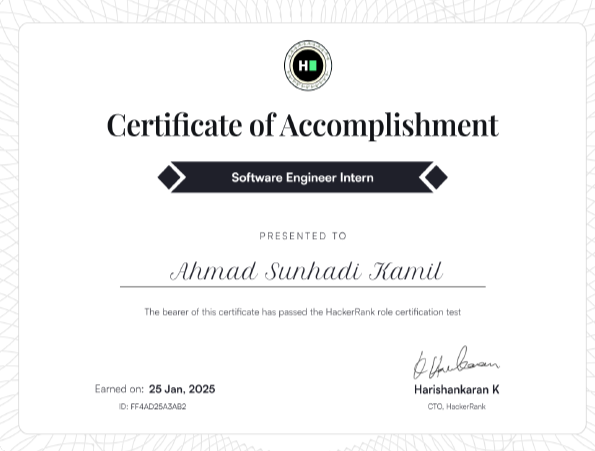
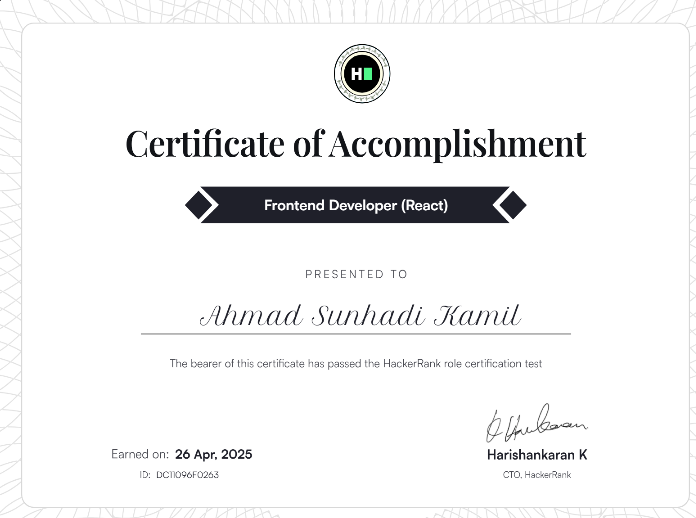
feat: update komponen About dengan gaya Neo-brutalism baru

diff --git a/src/app/about/page.tsx b/src/app/about/page.tsx
@@ -26,9 +26,13 @@ export default function About() {
   return (
     <section className="text-black-primary">
       <TextSection icon="😎" text="Tentang Saya" />
-      <div className="mx-auto mb-12 mt-8 flex flex-col items-center justify-center md:gap-10 lg:flex-row">
-        <div className="relative aspect-auto h-60 w-60 items-baseline justify-center rounded-3xl border-4 border-black-primary bg-yellow-primary object-cover shadow-image-card shadow-black-primary md:h-96 md:w-1/2 xl:w-96">
-          <div className="absolute right-0 flex h-12 w-16 translate-x-8 translate-y-6 items-center justify-center rounded-t-xl rounded-br-xl border-4 border-black-primary bg-orange-primary shadow-image-card shadow-black-primary md:h-16 md:w-20">
+      
+      <div className="mx-auto mb-12 mt-8 flex flex-col items-center justify-center gap-8 md:gap-10 lg:flex-row">
+        {/* CONTAINER FOTO PROFIL NEO-BRUTALISM IMPROVED */}
+        <div className="relative group h-72 w-72 shrink-0 rounded-3xl border-4 border-black-primary bg-yellow-primary shadow-[8px_8px_0px_0px_rgba(0,0,0,1)] transition-all duration-300 hover:translate-x-1 hover:translate-y-1 hover:shadow-[4px_4px_0px_0px_rgba(0,0,0,1)] md:h-[400px] md:w-[350px]">
+          
+          {/* Badge Ikon Kopi Animasi */}
+          <div className="absolute -right-4 -top-4 z-10 flex h-14 w-18 items-center justify-center rounded-xl border-4 border-black-primary bg-orange-primary shadow-[4px_4px_0px_0px_rgba(0,0,0,1)] md:h-16 md:w-20">
             <svg
               xmlns="http://www.w3.org/2000/svg"
               className="h-8 w-8 md:h-12 md:w-12"
@@ -106,15 +110,22 @@ export default function About() {
               </rect>
             </svg>
           </div>
-          <Image
-            src={'/me.png'}
-            alt="Picture of the author"
-            width={1000}
-            height={1000}
-            className="aspect-auto h-full w-full rounded-lg object-cover px-8"
-          />
+
+          {/* Wrapper Image agar pas dengan border radius bingkai */}
+          <div className="w-full h-full overflow-hidden rounded-[20px]">
+            <Image
+              src={'/me.png'}
+              alt="Picture of the author"
+              width={500}
+              height={500}
+              priority
+              className="h-full w-full object-cover object-center transition-transform duration-500 group-hover:scale-105"
+            />
+          </div>
         </div>
-        <p className="mt-5 text-justify text-base text-secondary-text md:mt-0 lg:w-1/2 xl:text-lg">
+
+        {/* DESKRIPSI TEKS */}
+        <p className="mt-5 text-justify text-base text-secondary-text md:mt-0 lg:w-1/2 xl:text-lg leading-relaxed">
           Saya adalah lulusan dari Jurusan <b>Teknologi Informasi</b> di Universitas Muhammadiyah Purworejo. 
           memiliki pemahaman yang kuat tentang bahasa pemrograman dan pengembangan web, serta pengalaman langsung dalam proyek <b>pengembangan perangkat lunak</b>.
           <br />
@@ -126,6 +137,7 @@ export default function About() {
           Selain itu, saya juga sedang memperdalam <b>Kotlin</b> untuk pengembangan aplikasi Android.
         </p>
       </div>
+
       <TextSection
         icon="💼"
         text="Ringkasan Profesional"
@@ -136,13 +148,13 @@ export default function About() {
           <ExperienceTimeline position={index % 2 == 1} key={index} {...data} />
         ))}
       </div>
+
       <TextSection
         icon="🎯"
         classNames="mt-10 xl:mt-28"
         text="Teknologi yang saya gunakan"
       />
       <div className="mt-5 flex flex-wrap justify-center justify-items-center gap-5 xl:gap-10 xl:px-40">
-        {/* <TechTabs /> */}
         {techIcons.map((data, index) => {
           const Icons = data.icons
           return (

diff --git a/src/app/sertifikat/page.tsx b/src/app/sertifikat/page.tsx
@@ -10,29 +10,22 @@ const CERTIFICATE_DATA: ICertificate[] = [
     title: "Fullstack Web Developer",
     company: "Digital Talent Scholarship - Kominfo",
     image: "/sertifikat/komdigi.png",
-    href: "https://dicoding.com/certificates/...",
+    href: "#",
     type: "course"
   },
   {
     title: "Software Engineering intern",
     company: "HackerRank",
     image: "/sertifikat/software.png",
-    href: "https://www.hackerrank.com/certificates/ff4ad25a3ab2",
+    href: "https://www.hackerrank.com/certificates/iframe/ff4ad25a3ab2",
     type: "competence"
   },
   {
     title: "Frontend Developer (React)",
     company: "HackerRank",
     image: "/sertifikat/react.png",
-    href: "https://www.hackerrank.com/certificates/dc11096f0263",
+    href: "https://www.hackerrank.com/certificates/iframe/dc11096f0263",
     type: "competence"
-  },
-  {
-    title: "Belajar Dasar AI",
-    company: "Dicoding",
-    image: "/sertifikat/aidasar.png",
-    href: "#",
-    type: "course"
   },
   {
     title: "Google Analytics Individual Qualification",
@@ -42,24 +35,31 @@ const CERTIFICATE_DATA: ICertificate[] = [
     type: "competence"
   },
   {
-    title: "Pentingnya Menjaga Keamanan Digital",
-    company: "Digital Talent Scholarship - Kominfo",
-    image: "/sertifikat/duniamaya.png",
-    href: "#",
-    type: "course"
-  },
-  {
-    title: "Dasar-Dasar Implementasi Kecerdasan Artifisial",
-    company: "Digital Talent Scholarship - Kominfo",
-    image: "/sertifikat/implementasiai.png",
-    href: "#",
-    type: "course"
-  },
-  {
     title: "Rest API (intermediate)",
     company: "HackerRank",
     image: "/sertifikat/restapi.png",
-    href: "#",
+    href: "https://www.hackerrank.com/certificates/iframe/1a8b894f670a",
+    type: "competence"
+  },
+  {
+    title: "Spec-Driven Development dengan Kiro",
+    company: "Dicoding",
+    image: "/sertifikat/kiro.png",
+    href: "https://www.dicoding.com/certificates/L4PQ9W4QQPO1",
+    type: "course"
+  },
+  {
+    title: "Dasar Cloud dan Gen AI AWS",
+    company: "Dicoding",
+    image: "/sertifikat/aws-dasar.png",
+    href: "https://www.dicoding.com/certificates/JMZVOLG1NXN9",
+    type: "course"
+  },
+  {
+    title: "SQL (Advenced)",
+    company: "HackerRank",
+    image: "/sertifikat/sql.png",
+    href: "https://www.hackerrank.com/certificates/iframe/7c253c6d9491",
     type: "competence"
   }
 ]

diff --git a/src/components/common/Icons.tsx b/src/components/common/Icons.tsx
@@ -1,3 +1,5 @@
+import React from 'react'
+
 export function Github() {
   return (
     <svg
@@ -370,6 +372,53 @@ export function Telegram() {
             begin="0.7s"
             dur="0.3s"
             values="6;0"
+          ></animate>
+        </path>
+      </g>
+    </svg>
+  )
+}
+
+export function HackerRank() {
+  return (
+    <svg
+      xmlns="http://www.w3.org/2000/svg"
+      className="h-8 w-8 md:h-10 md:w-10"
+      viewBox="0 0 24 24"
+    >
+      {/* Background fill animation */}
+      <path
+        fill="black"
+        fillOpacity={0}
+        d="M5 2h4v7.261l3 1.556 3-1.556V2h4v20h-4v-7.261l-3-1.556-3 1.556V22H5V2z"
+      >
+        <animate
+          fill="freeze"
+          attributeName="fill-opacity"
+          begin="0.8s"
+          dur="0.15s"
+          values="0;0.3"
+        ></animate>
+      </path>
+      
+      {/* Stroke line drawing animation */}
+      <g
+        fill="none"
+        stroke="black"
+        strokeLinecap="round"
+        strokeLinejoin="round"
+        strokeWidth={2}
+      >
+        <path
+          strokeDasharray={80}
+          strokeDashoffset={80}
+          d="M5 22V2H9V9.261L12 10.817L15 9.261V2H19V22H15V14.739L12 13.183L9 14.739V22H5Z"
+        >
+          <animate
+            fill="freeze"
+            attributeName="stroke-dashoffset"
+            dur="0.8s"
+            values="80;0"
           ></animate>
         </path>
       </g>

diff --git a/src/utils/constant/LogoLinks.ts b/src/utils/constant/LogoLinks.ts
@@ -6,6 +6,7 @@ import {
   Mail,
   Telegram,
   Twitter,
+  HackerRank,
 } from '@/components/common/Icons'
 
 export const logoLinks = [
@@ -45,5 +46,10 @@ export const logoLinks = [
     name: 'Telegram',
     href: 'https://telegram.org/dl',
     icon: Telegram,
+  },
+  {
+    name: 'HackerRank',
+    href: 'https://www.hackerrank.com/profile/ahmadsunhadikam1',
+    icon: HackerRank,
   },
 ]
